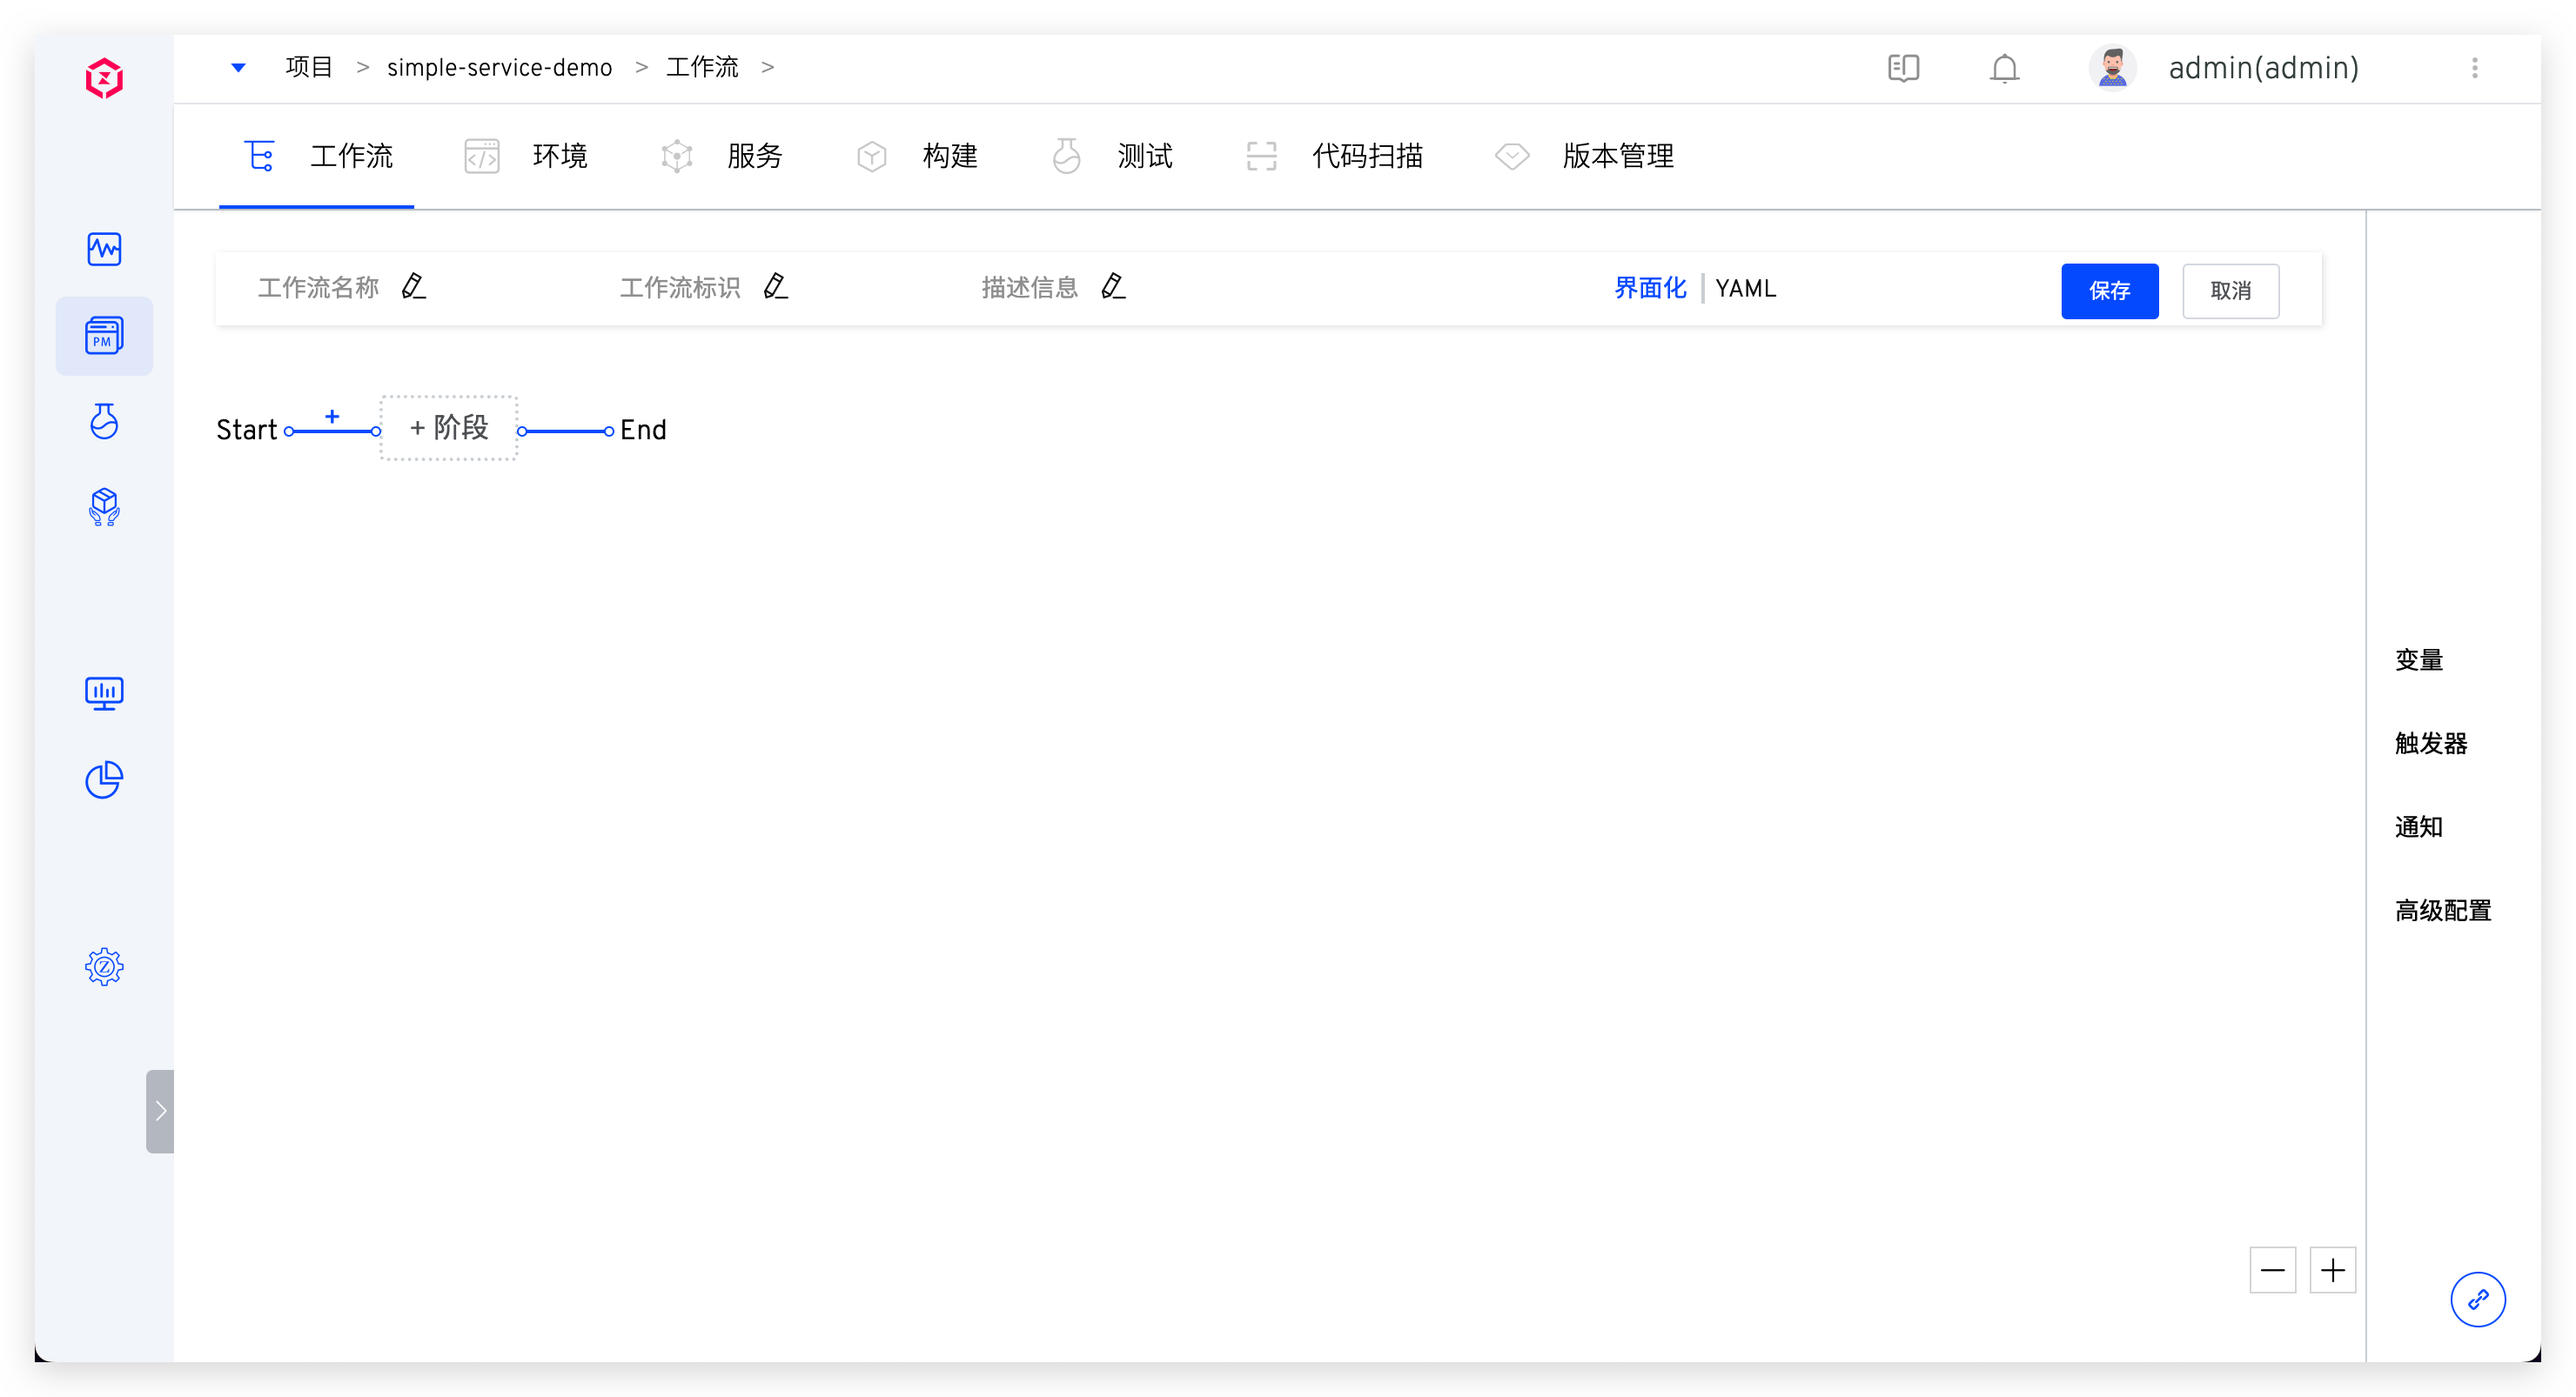
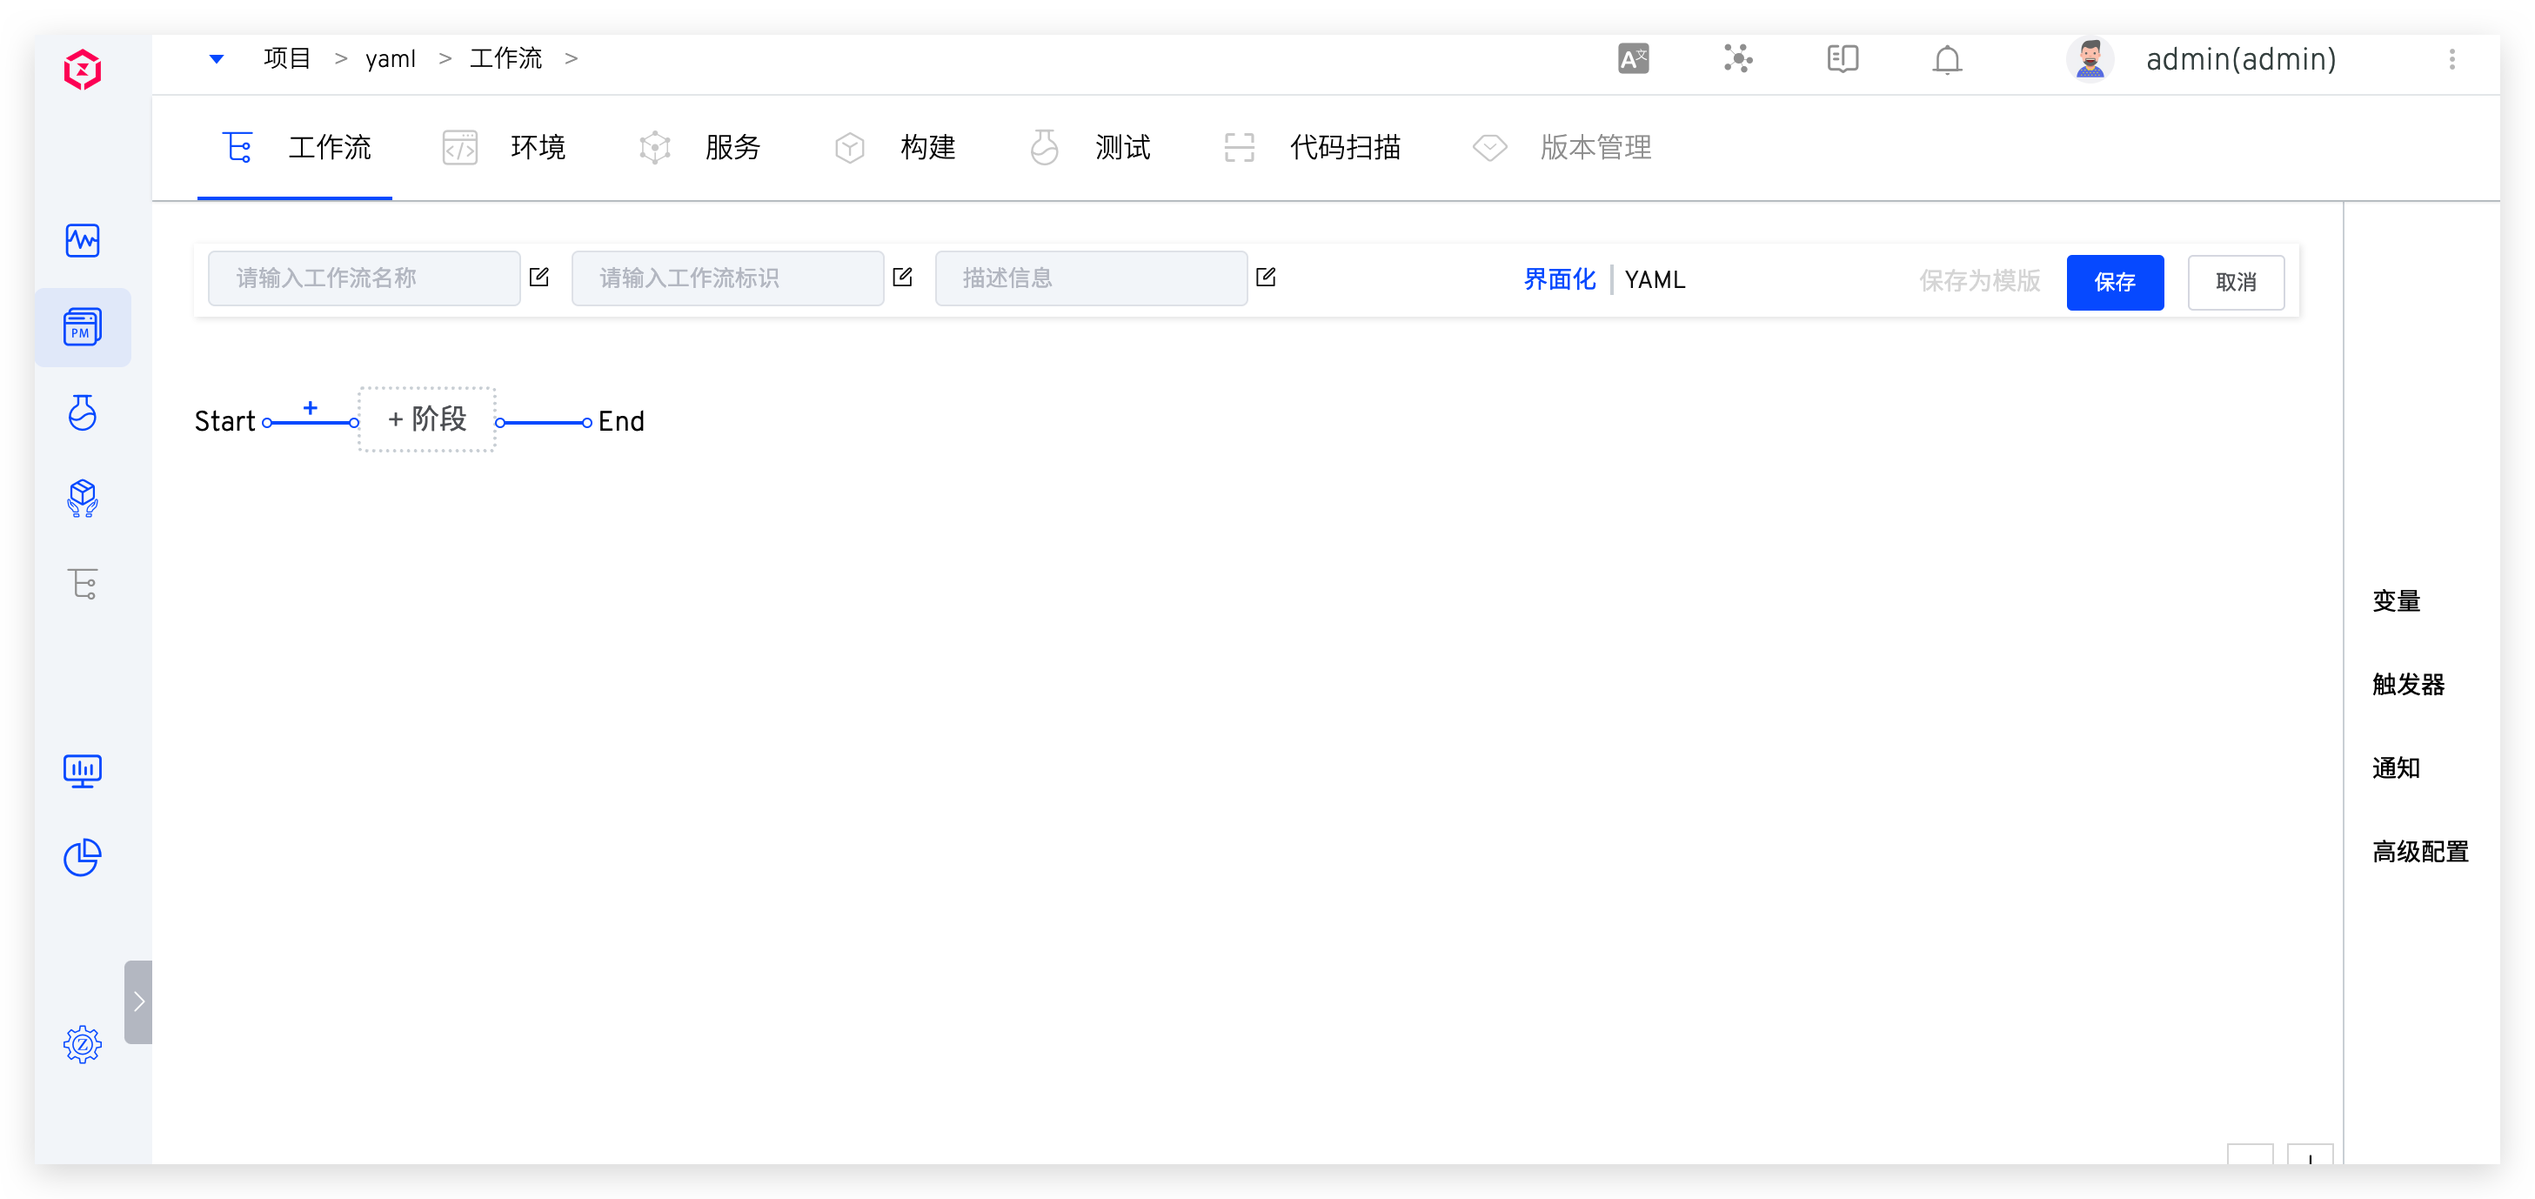
modify create common workflow

diff --git a/dev/04.项目/02.工作流/02.common_workflow.md b/dev/04.项目/02.工作流/02.common_workflow.md
@@ -14,11 +14,18 @@ permalink: /dev/project/common-workflow/
 <!-- - Step：组成任务的单元，比如克隆代码、执行 Shell 脚本、执行镜像构建、收集测试报告等... -->
 
 ## 新建
+### 新建空白工作流
 
 进入项目中点击新建工作流，选择`自定义工作流`，系统提供`界面化`和 `YAML` 两种方式来配置自定义工作流。
 
 ![create_common_workflow](../_images/create_common_workflow_1.png)
 ![create_common_workflow](../_images/create_common_workflow_2.png)
+
+### 使用模板新建<Badge text="企业版" />
+
+新建工作流 -> 选择使用`自定义工作流`，可以选择自定义模板或者系统内置的工作流模板来新建工作流，如下图所示。
+
+![create_common_workflow](../_images/create_common_workflow_3.png)
 
 ## 界面化配置
 

diff --git a/dev/05.模板库/04.workflow.md b/dev/05.模板库/04.workflow.md
@@ -43,7 +43,7 @@ permalink: /dev/template/workflow/
 ![使用工作流模板](./_images/use_workflow_template_01.png)
 
 
-### 模板
+### 自定义模板
 - 这里以自定义工作流为例，可以看到已创建的，名为 `服务更新` 的自定义工作流模板，点击使用，即可以该模板新建一个自定义工作流。
 
 ![使用工作流模板](./_images/use_workflow_template_02.png)
